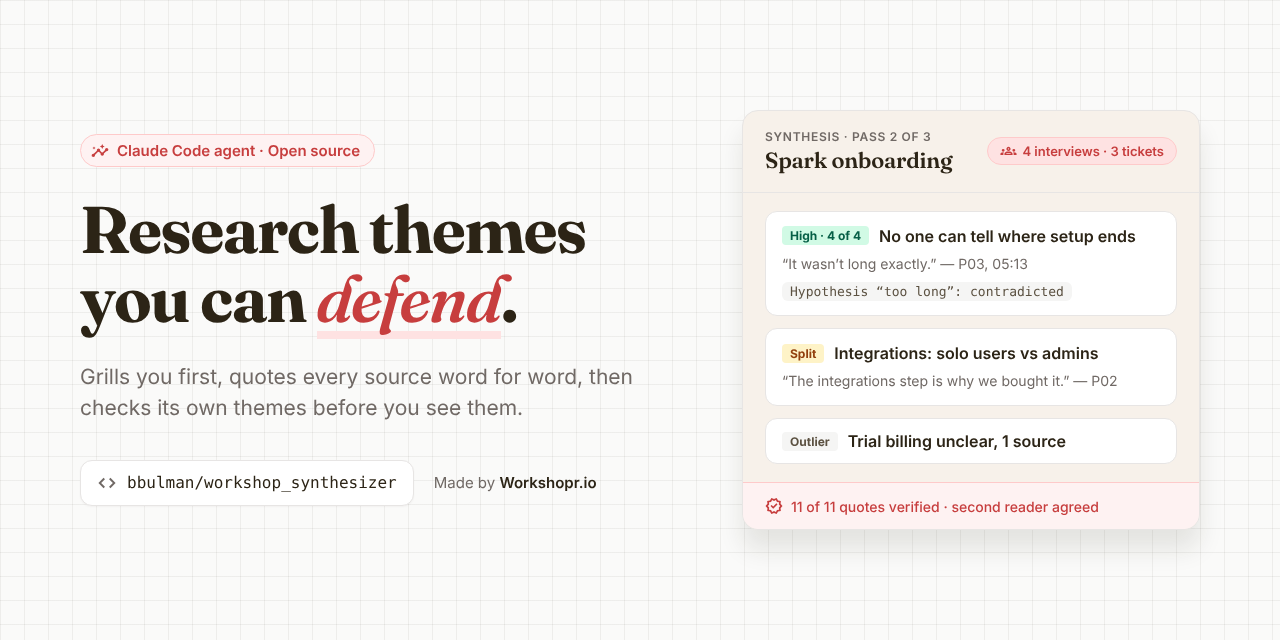
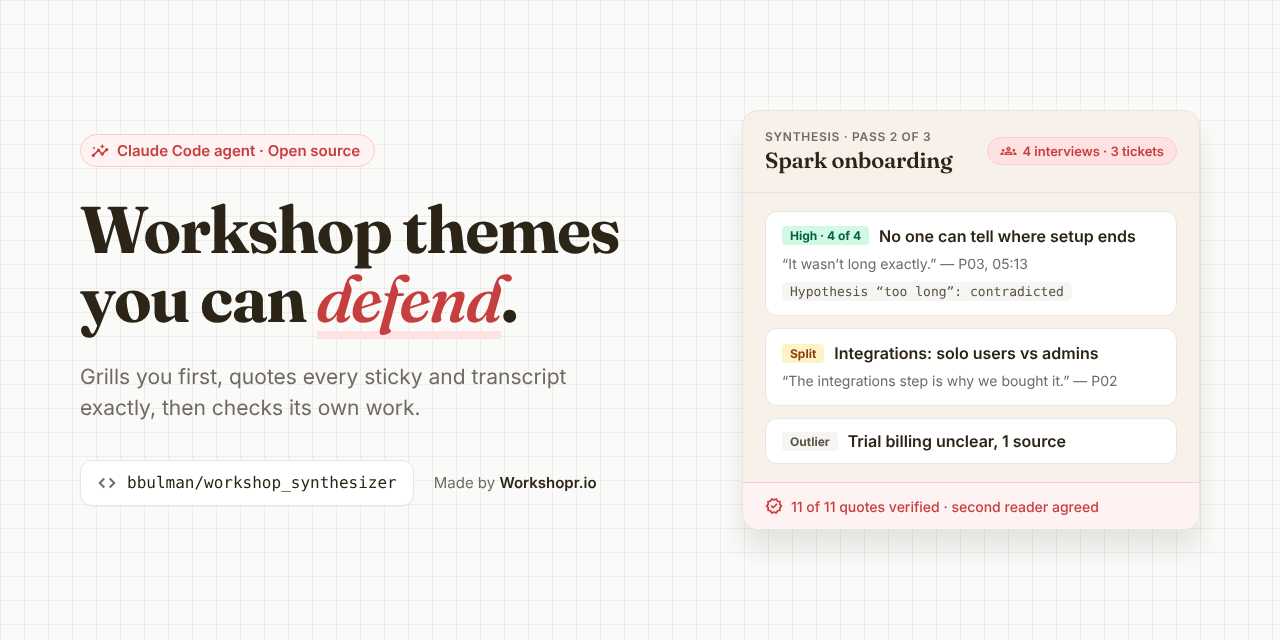
Header image and site: 'Workshop themes you can defend'
Claude-Session: https://claude.ai/code/session_01YTSuB8o5HsuvAKQgkmjdJA

Changed region(s): [[0.0625, 0.3125, 0.5, 0.4375], [0.0625, 0.5625, 0.5, 0.6562]]

diff --git a/docs/index.html b/docs/index.html
@@ -3,7 +3,7 @@
 <head>
 <meta charset="utf-8">
 <meta name="viewport" content="width=device-width, initial-scale=1">
-<title>workshop_synthesizer: research themes you can defend</title>
+<title>workshop_synthesizer: workshop themes you can defend</title>
 <meta name="description" content="A workshop synthesizer for Claude Code. It grills you about the decision first, writes themes where every quote is verbatim and source-tagged, and loops until a script and a second reader can’t knock them down.">
 <link rel="preconnect" href="https://fonts.googleapis.com">
 <link rel="preconnect" href="https://fonts.gstatic.com" crossorigin>
@@ -105,7 +105,7 @@
 
   <main>
     <div class="hero">
-      <h1>Research themes you can defend.</h1>
+      <h1>Workshop themes you can defend.</h1>
       <p class="lede">Hand it interviews, tickets, survey answers, whiteboard photos or a FigJam board. It asks what decision the research is for, writes themes where every quote is word for word and tagged to its source, then loops until a script and a second reader can't knock them down. Built for Claude Code, and the basis for the synthesize harness in <a href="https://workshopr.io">Workshopr.io</a>.</p>
       <div class="actions">
         <a class="button" href="https://github.com/bbulman/workshop_synthesizer">Get it on GitHub</a>

diff --git a/README.md b/README.md
@@ -1,6 +1,6 @@
 # workshop_synthesizer
 
-![workshop-synthesizer: research themes you can defend, every quote checked](.github/social-preview.png)
+![workshop_synthesizer: workshop themes you can defend, every quote checked](.github/social-preview.png)
 
 A workshop synthesizer for [Claude Code](https://claude.com/claude-code) that grills you first, quotes your sources word for word, and checks its own themes before you see them.
 
